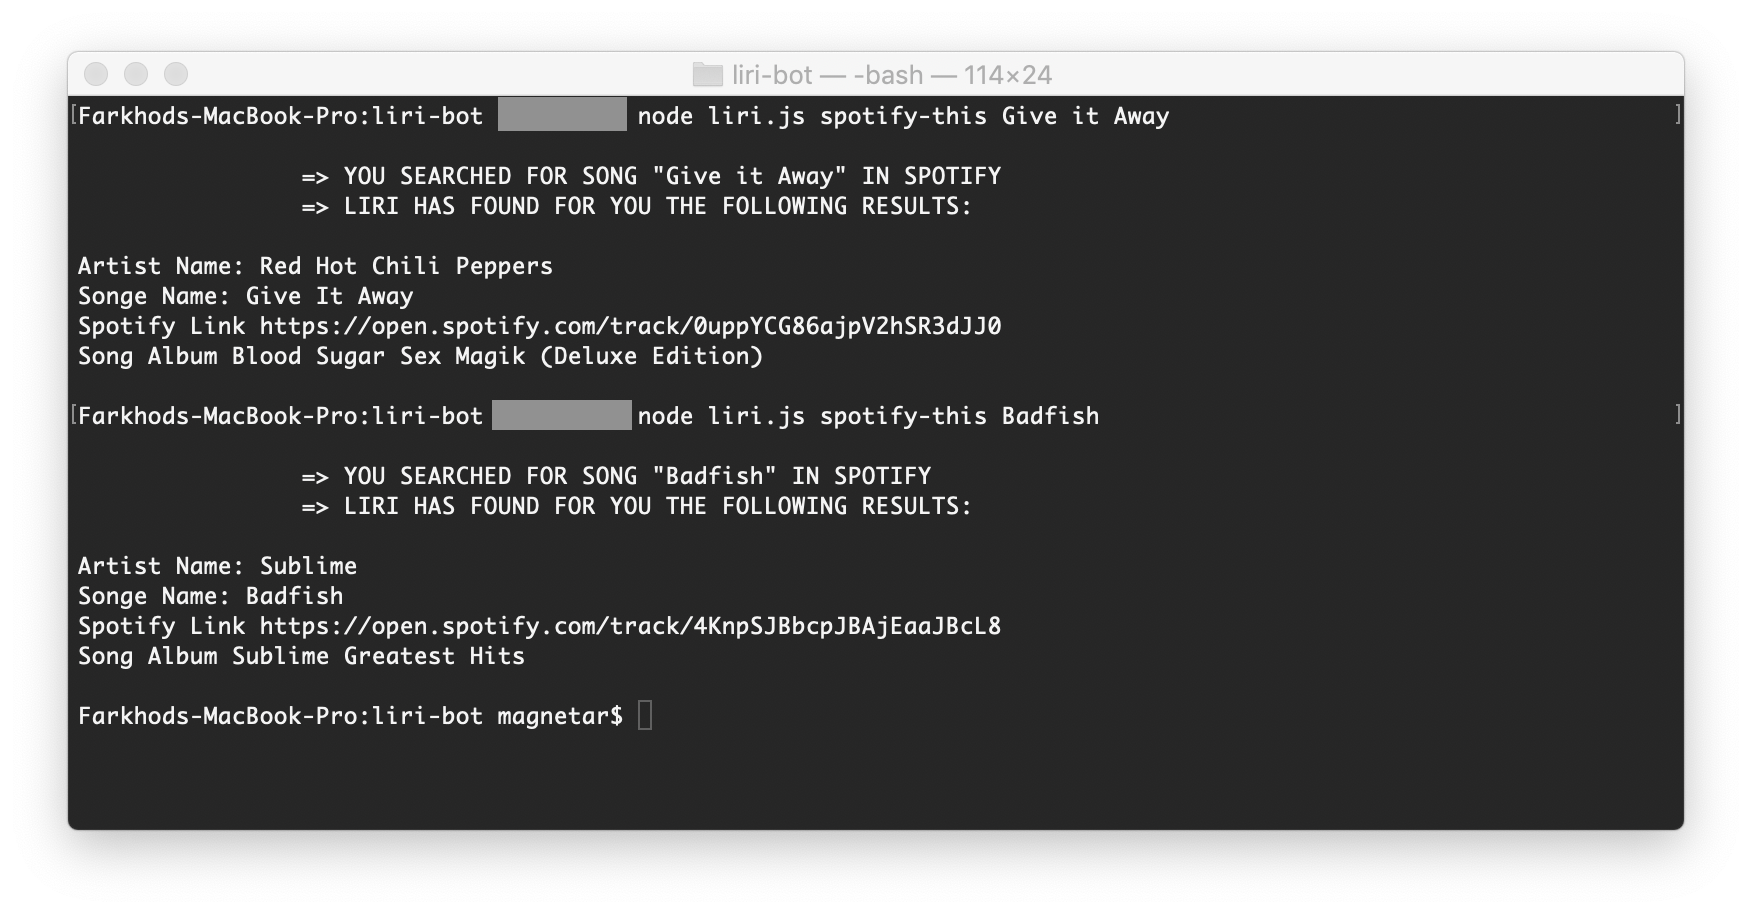
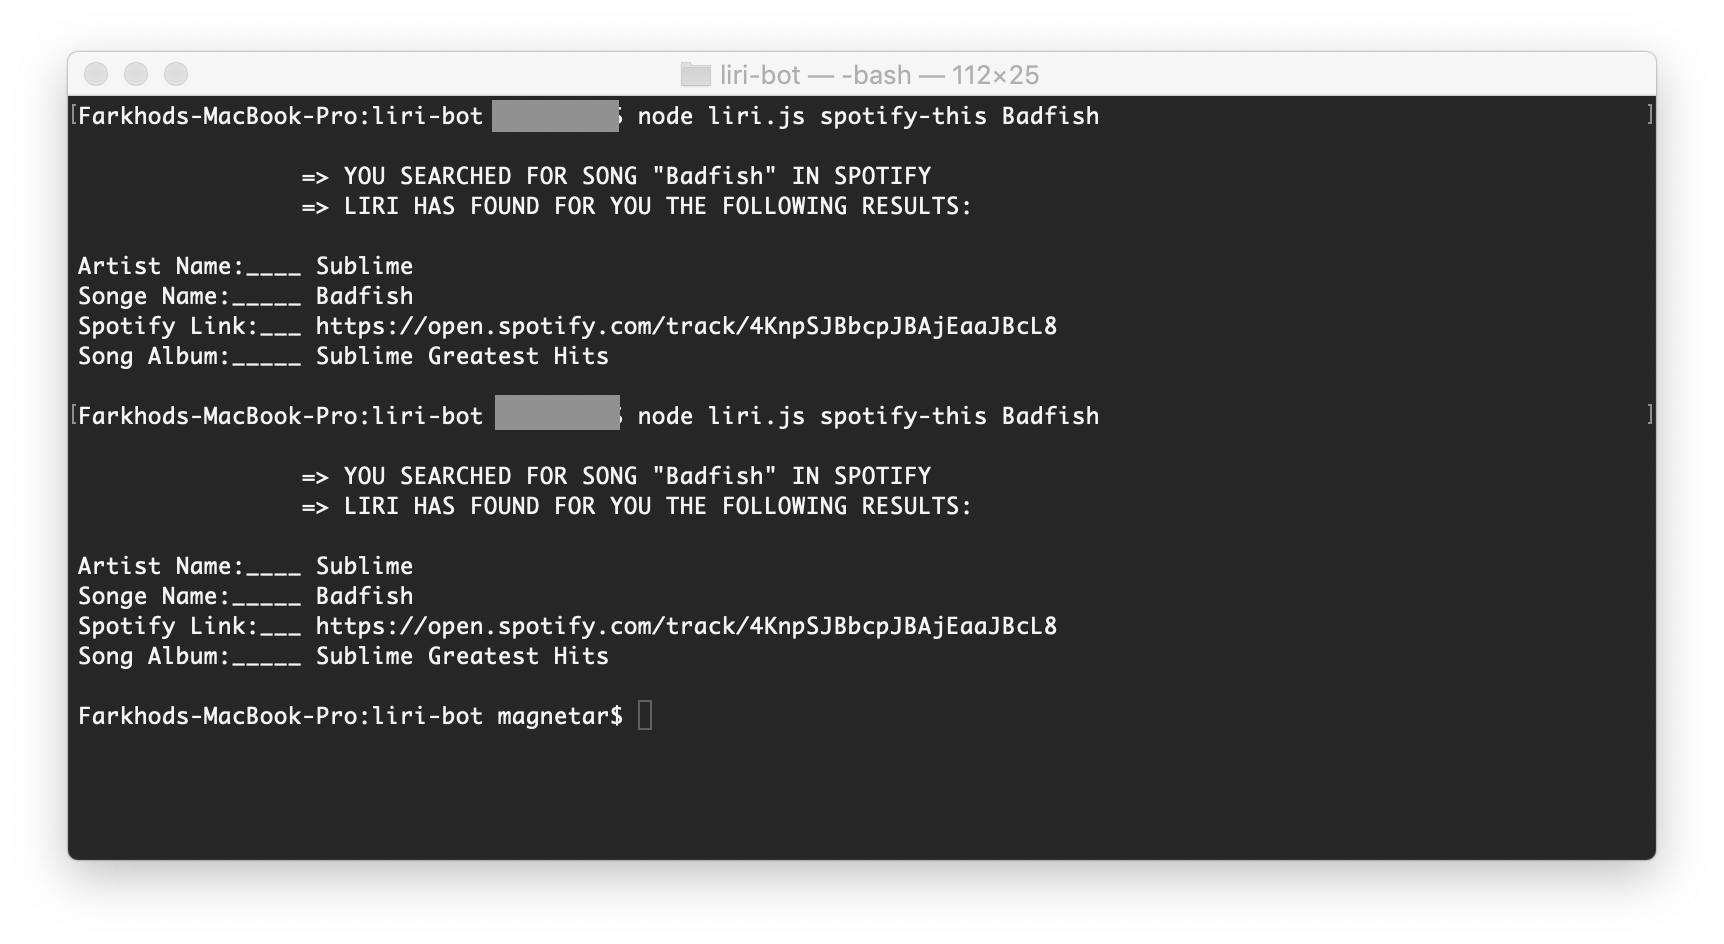
movie-this screenshot updated

Changed region(s): [[0.0307, 0.2757, 0.6456, 0.7965], [0.0307, 0.0613, 0.953, 0.2451], [0.0307, 0.8884, 0.953, 0.919]]

diff --git a/liri.js b/liri.js
@@ -92,10 +92,10 @@ const spotifyThis = () => {
       // dipslay message to the user when query intitiated
       console.log(`\n\t\t=> YOU SEARCHED FOR SONG "${userQuery}" IN SPOTIFY`);
       console.log(`\t\t=> LIRI HAS FOUND FOR YOU THE FOLLOWING RESULTS:\n`);
-      console.log(`Artist Name: ${artistName}`);
-      console.log(`Songe Name: ${songName}`);
-      console.log(`Spotify Link ${songPreivewLink}`);
-      console.log(`Song Album ${songAlbum}\n`);
+      console.log(`Artist Name:____ ${artistName}`);
+      console.log(`Songe Name:_____ ${songName}`);
+      console.log(`Spotify Link:___ ${songPreivewLink}`);
+      console.log(`Song Album:_____ ${songAlbum}\n`);
     }
   });
 };
